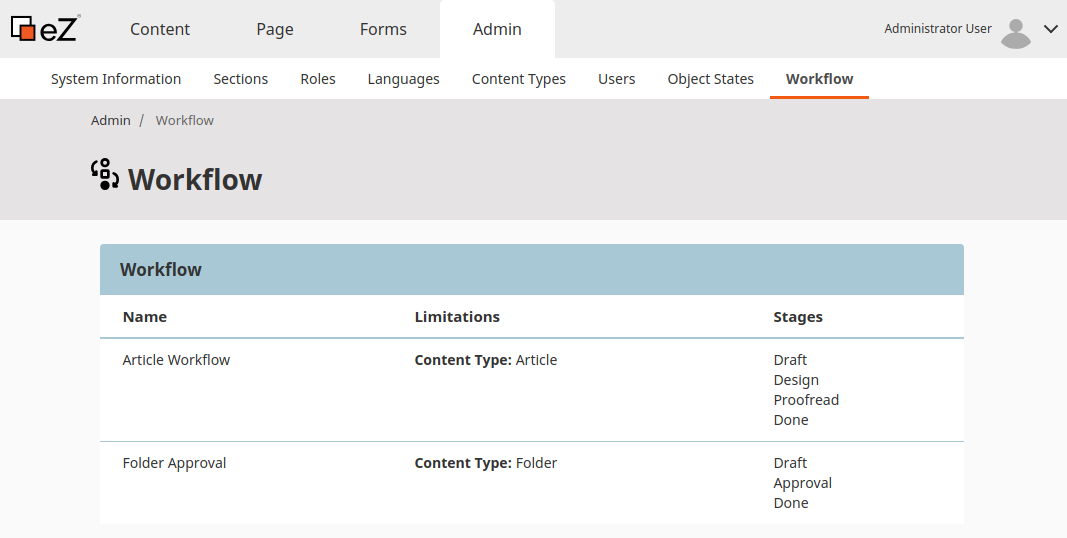
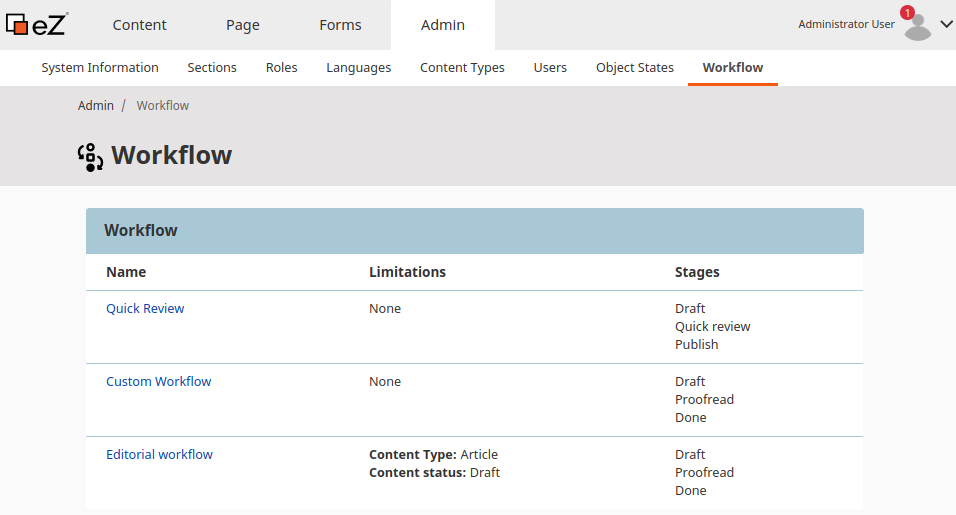
EZEE-2855: Move flex workflow to Symfony workflow

diff --git a/docs/guide/workflow.md b/docs/guide/workflow.md
@@ -12,10 +12,10 @@
 
     Each workflow consists of stages and transitions between them.
 
-    The following configuration defines a workflow where you can pass a draft to technical review, then to proofreading, and to final approval.
-    The workflow is defined in the `config/packages/workflow.yaml` configuration file.
+    The following configuration defines a workflow where you can pass a draft to proofreading, and then to final approval.
+    The workflow is defined in the `config/packages/ezplatform.yaml` configuration file.
 
-    ``` yaml hl_lines="16 17 18 33 34 34 35 36 37 38 69 70 71 72"
+    ``` yaml hl_lines="16 17 18 30 31 32 33 34 35 36 37"
     ezplatform:
         system:
             # Workflow configuration is SiteAccess-aware
@@ -25,18 +25,15 @@
                     custom_workflow:
                         name: Custom Workflow
                         matchers:
-                            # Which Content Types can use this workflow
+                            # Which Content Types can use this workflow, optional
                             content_type: article
-                            # Which status of the Content item can use this workflow. Available statuses are draft and published.
+                            # Which status of the Content item can use this workflow, optional. Available statuses are draft and published.
                             content_status: draft
                         # All stages the content goes through
                         stages:
                             draft:
                                 label: Draft
                                 color: '#f15a10'
-                            technical:
-                                label: Technical review
-                                color: '#10f15a'
                             proofread:
                                 label: Proofread
                                 color: '#5a10f1'
@@ -48,61 +45,126 @@
                         initial_stage: draft
                         # Available transitions between stages
                         transitions:
-                            to_technical:
-                                from: draft
-                                to: technical
-                                label: To technical review
-                                color: '#cb8888'
-                                icon: '/bundles/ezplatformadminui/img/ez-icons.svg#comment'
-                                notification:
-                                    user_group: 13
-                            back_to_draft:
-                                reverse: to_technical
-                                label: Back to draft
-                                color: '#888888'
-                                icon: '/bundles/ezplatformadminui/img/ez-icons.svg#comment'
-                                notification:
-                                    user_group: 13
                             to_proofread:
-                                from: technical
+                                from: draft
                                 to: proofread
                                 label: To proofreading
                                 color: '#8888ba'
                                 icon: '/bundles/ezplatformadminui/img/ez-icons.svg#comment'
-                                notification:
-                                    user_group: 13
-                            back_to_technical:
+                                reviewers:
+                                    required: true
+                            back_to_draft:
                                 reverse: to_proofread
-                                label: Back to technical review
+                                label: Back to draft
                                 color: '#cb8888'
                                 icon: '/bundles/ezplatformadminui/img/ez-icons.svg#comment'
-                                notification:
-                                    user_group: 13
                             done:
                                 from: proofread
                                 to: done
                                 label: Done
                                 color: '#88ad88'
                                 icon: '/bundles/ezplatformadminui/img/ez-icons.svg#comment'
-                                notification:
-                                    # Which User Group or User to notify about this transition
-                                    user_group: 13
-                                    user: 14
     ```
 
     Each stage in the workflow has an identifier and can be assigned a label and a color (lines 16-18).
 
     Each transition also has an identifier. It must state between which stages it transitions, or be marked as `reverse` of a different transition.
     
-    Transitions can also have labels, colors, and icons (lines 33-38).
+    Transitions can also have labels, colors, and icons (lines 33-35).
     If you don't define a custom color for a transition, a default setting will be used (`$ez-color-base-light`, i.e. `#878787`).
-
-    `notification` (lines 69-72) defines who will be notified when a transition happens by providing the User or User Group ID.
-    Notifications will be displayed in the user menu.
-
+    
+    You can require that a reviewer be selected when content is sent through a transition (lines 36-37).
+    The user will then not have the option to send the Content item without selecting a reviewer:
+    
+    ![Required reviewer option in a workflow](img/workflow_reviewers.png)
+    
+    !!! note
+    
+        If a User does not have the permissions to view of edit the Content item,
+        you cannot select them as a reviewer.
+    
     You can view all configured workflows in the Admin Panel by selecting **Workflow**.
 
     ![Workflow in Admin Panel](img/workflow_panel.png)
+
+    ## Publishing content with workflow
+
+    You can automatically publish a Content item once it has reached a specific stage.
+    To do so, configure the `publish` action for a transition:
+    
+    ``` yaml
+    custom_workflow:
+        # ...
+        transitions:
+            # ...
+            done:
+                from: proofread
+                to: done
+                label: Done
+                color: '#88ad88'
+                actions:
+                    publish: ~
+    ```
+    
+    You can also add the action in stage configuration.
+    It will be performed when the Content item reaches this stage:
+    
+    ``` yaml
+    custom_workflow:
+        # ...
+        stages:
+            # ...
+            done:
+                label: Done
+                color: '#301203'
+                last_stage: true
+                actions:
+                    publish: ~
+    ```
+
+    ## Sending notifications
+
+    There are two ways to send notifications about changes in the workflow.
+
+    First, you can notify whole User Groups or specific Users about a transition
+    by providing the User or User Group ID under the` notification` key.
+    
+    In this case the User does not have to be selected as a reviewer.
+
+    ``` yaml
+    custom_workflow:
+        # ...
+        transitions:
+            # ...
+            done:
+                from: proofread
+                to: done
+                label: Done
+                color: '#88ad88'
+                notification:
+                    # Which User Group or User to notify about this transition
+                    user_group: 13
+                    user: 14
+    ```
+
+    Second, when an editor selects a reviewer in the Back Office,
+    your configuration can send a notification to the reviewer:
+    
+    ``` yaml
+    custom_workflow:
+        # ...
+        stages:
+            # ...
+            proofread:
+                label: Proofread
+                color: '#5a10f1'
+                actions:
+                    notify_reviewer: ~
+    ```
+
+    In both cases, the notifications will be displayed in the user menu:
+
+    ![Notification about content to review](img/workflow_notification.png)
 
     ## Permissions
 
@@ -141,62 +203,3 @@
 
     `\EzSystems\EzPlatformWorkflow\Value\WorkflowMetadata` object contains all information about a workflow, such as ID, name, transitions and current stage.
     `\EzSystems\EzPlatformWorkflow\Value\WorkflowMetadata::$workflow` gives you direct access to native Symfony Workflow object.
-
-    ## Publishing content with workflow
-
-    The workflow functionality only operates on workflow stages.
-    It does not perform operations on content, such as publishing it, out of the box.
-
-    This means it does not automatically publish a Content item when it reaches the final stage of a workflow.
-    It can be done with a custom implementation.
-
-    ### Publish content that reaches final stage
-
-    To publish a Content item once it reaches the final stage of a workflow, you need to set up an event subscriber.
-
-    You can use the [`PublishOnLastStageSubscriber.php`](https://github.com/ezsystems/ezplatform-ee-demo/blob/v2.5.0/src/AppBundle/Event/Workflow/PublishOnLastStageSubscriber.php) from eZ Platform demo as a basis for the subscriber.
-
-    The subscriber listens for the `WorkflowEvents::WORKFLOW_STAGE_CHANGE` event
-    ([line 61](https://github.com/ezsystems/ezplatform-ee-demo/blob/v2.5.0/src/AppBundle/Event/Workflow/PublishOnLastStageSubscriber.php#L61)).
-    When the event occurs, it publishes the relevant Content item
-    ([line 87](https://github.com/ezsystems/ezplatform-ee-demo/blob/v2.5.0/src/AppBundle/Event/Workflow/PublishOnLastStageSubscriber.php#L87)).
-
-    The subscriber must be registered as a service:
-
-    ``` yaml hl_lines="5"
-    services:
-        # ...
-        App\Event\Workflow\PublishOnLastStageSubscriber:
-            arguments:
-                $publishOnLastStageWorkflows: '%app.workflow.publish_on_last_stage%'
-    ```
-
-    You must also provide the identifier of the workflow you want the subscriber to apply to.
-    Do it in the `app.workflow.publish_on_last_stage` parameter:
-
-    ``` yaml
-    parameters:
-        app.workflow.publish_on_last_stage: [editorial_workflow, legal_workflow]
-    ```
-
-    ### Finish workflow for published content
-
-    With proper permissions, you can publish content even before it has gone through a whole workflow.
-    Afterward it will still be visible in the review queue
-    and in the relevant stage of **Content item(s) under review** tab under **Workflow** in the Admin panel.
-
-    To avoid cluttering the tables with published content, you can use an event subscriber
-    which will automatically move content to the last stage of the workflow after it has been published.
-
-    You can use the [`EndWorkflowSubscriber.php`](https://github.com/ezsystems/ezplatform-ee-demo/blob/v2.5.0/src/AppBundle/Event/Subscriber/EndWorkflowSubscriber.php) from eZ Platform demo as a basis for the subscriber.
-
-    The [`doEndWorkflows()`](https://github.com/ezsystems/ezplatform-ee-demo/blob/v2.5.0/src/AppBundle/Event/Subscriber/EndWorkflowSubscriber.php#L105) function in the example
-    applies all transitions that are needed to bring the Content item to the final workflow stage.
-
-    The subscriber must also be registered as a service:
-
-    ``` yaml
-    services:
-        # ...
-        App\Event\Subscriber\EndWorkflowSubscriber: ~
-    ```

diff --git a/docs/guide/sending_notifications.md b/docs/guide/sending_notifications.md
@@ -7,7 +7,7 @@ It appears to whoever is doing a specific operation in the Back Office.
 
 ![Example of an info notification](img/notification2.png "Example of the notification bar")
 
-[Flex Workflow notifications](#create-custom-notifications-using-the-flex-workflow-mechanism) are sent to a specific user.
+[Custom notifications](#create-custom-notifications) are sent to a specific user.
 They will appear in their profile in the Back Office.
 
 ![Notification in profile](img/notification3.png)
@@ -47,9 +47,9 @@ const eventInfo = new CustomEvent('ez-notify', {
 
 Dispatch the event with `document.body.dispatchEvent(eventInfo);`.
 
-## Create custom notifications using the Flex Workflow mechanism
+## Create custom notifications
 
-You can send your own custom notifications to the user with the same mechanism that is used to send notification from Flex Workflow.
+You can send your own custom notifications to the user which will be displayed in the user menu.
 
 To create a new notification you must use the `createNotification(eZ\Publish\API\Repository\Values\Notification\CreateStruct $createStruct)` method from `\eZ\Publish\API\Repository\NotificationService`.
 

diff --git a/docs/guide/bundles.md b/docs/guide/bundles.md
@@ -361,7 +361,7 @@ The following tables give an overview of the main eZ Platform bundles.
     |Bundle|Description|
     |---------|-----------|
     |date-based-publisher|provides the date based publishing functionality for the eZ Studio product|
-    |flex-workflow|implementation of a collaboration feature that lets you send content draft to any user for a review or rewriting|
+	|ezplatform-workflow|implementation of a collaboration feature that lets you send content draft to any user for a review or rewriting|
     |ezplatform-page-fieldtype|page handling FieldType for eZ Platform EE 2.2+|
     |ezplatform-page-builder|contains eZ Platform Page editor for eZ Platform EE 2.2+|
     |ezplatform-ee-installer|provides `ezplatform:install` Symfony console command which is the installer for eZ Platform Enterprise v2|
